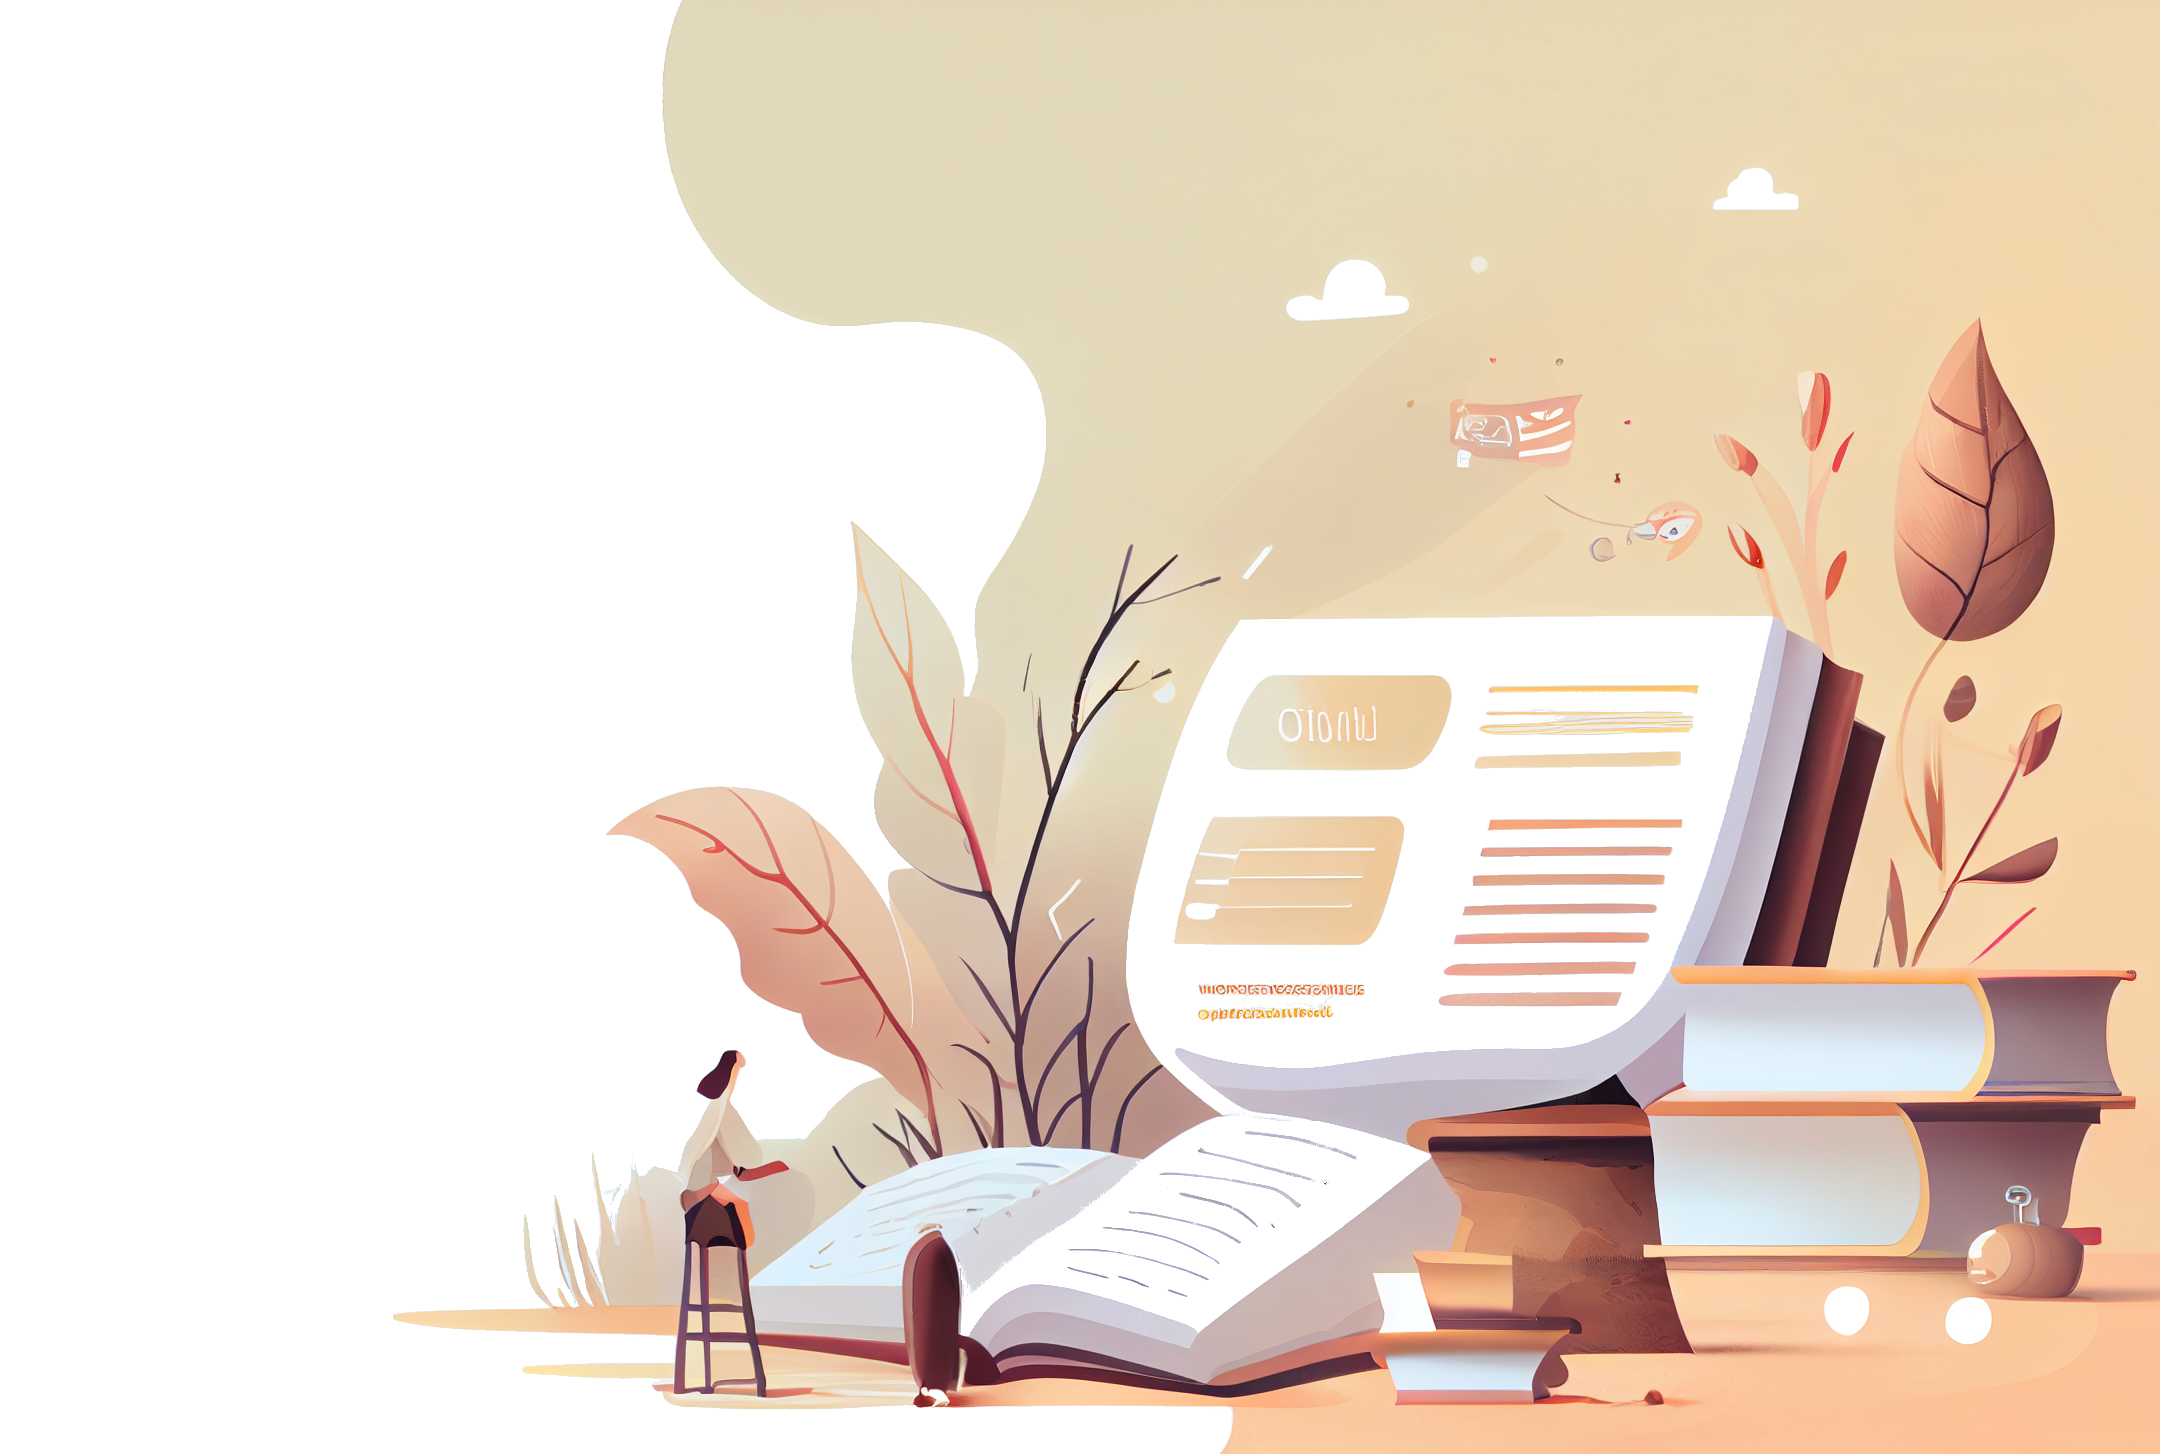
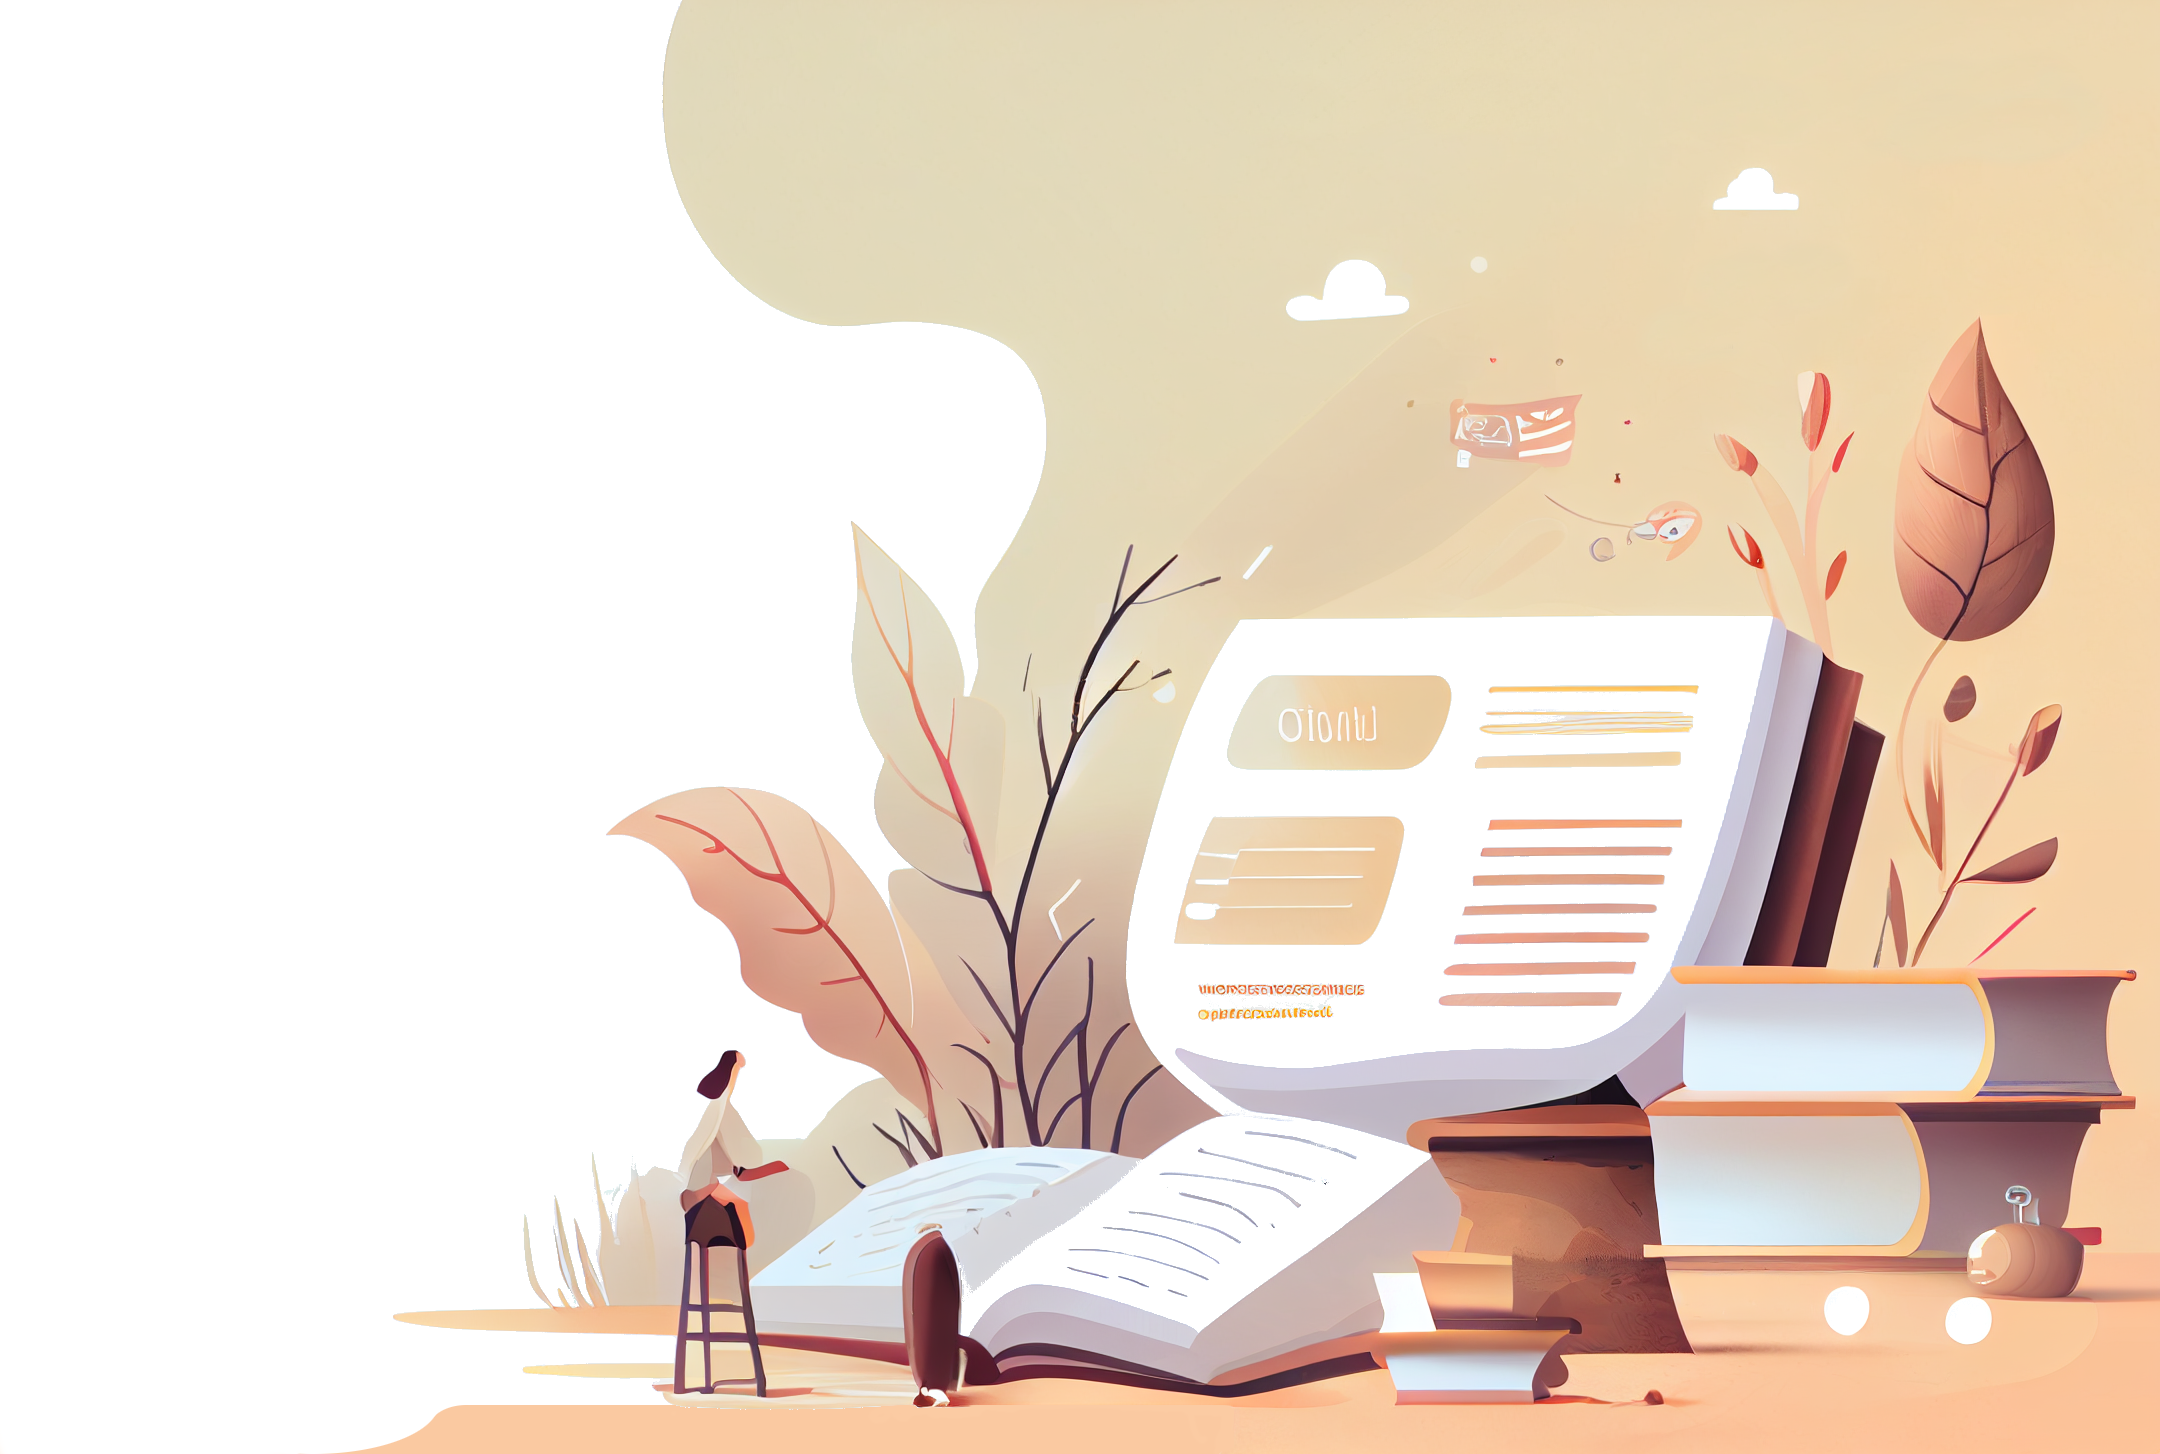
Bg reworked

Changed region(s): [[0.1551, 0.9594, 0.5894, 1.0]]

diff --git a/build/web/flutter_service_worker.js b/build/web/flutter_service_worker.js
@@ -12,9 +12,9 @@ const RESOURCES = {
 "icons/Icon-512.png": "96e752610906ba2a93c65f8abe1645f1",
 "app.html": "2b456f24f578dfd2fcb552a9b7c01408",
 "favicon.png": "5dcef449791fa27946b3d35ad8803796",
-"index.css": "74a4f4dc9c2987b8a4559084ebbe78a3",
+"index.css": "e25d11619004ebd072ddb9e5a1f85bc2",
 ".git/HEAD": "4cf2d64e44205fe628ddd534e1151b58",
-".git/COMMIT_EDITMSG": "042d32856a5010062da595454fd1b8d0",
+".git/COMMIT_EDITMSG": "ba89174eac5268cbe65dd0e7a0260c37",
 ".git/hooks/pre-rebase.sample": "56e45f2bcbc8226d2b4200f7c46371bf",
 ".git/hooks/pre-commit.sample": "e4db8c12ee125a8a085907b757359ef0",
 ".git/hooks/pre-push.sample": "3c5989301dd4b949dfa1f43738a22819",
@@ -28,6 +28,7 @@ const RESOURCES = {
 ".git/hooks/pre-merge-commit.sample": "39cb268e2a85d436b9eb6f47614c3cbc",
 ".git/hooks/update.sample": "517f14b9239689dff8bda3022ebd9004",
 ".git/config": "d1d951ac9a08aafb0bf9b4abba60eed3",
+".git/objects/f8/1218ec7f899b6292d6d2e8e73da1a1968a9b1c": "95b1adae4b95b45629db67f91aabd4de",
 ".git/objects/9b/27534445ef303bd6f2058b5e627c52e3456e30": "07d38b293dcec26b6d87aa57010a91a8",
 ".git/objects/24/dc7fa4d3e61a950d014b160cf62b18ef7013f6": "141ab433709e4f1902d441653e13352e",
 ".git/objects/4b/ce11f832f26ee264d95b6790237601cf5a6088": "d9243641979aa81a886b057ab392745a",
@@ -38,6 +39,7 @@ const RESOURCES = {
 ".git/objects/c7/a143b63cf893f4a5859b7c83d104ef9a116fe8": "439dc538b8094231c483043ec9e05e42",
 ".git/objects/9c/750f202659b430f890eaf6048e59b4d4712fe5": "df0d4037c4e261d006ac0c858b69b00c",
 ".git/objects/2a/76d427c768f181b2b51cd6149819c66cfb6bd0": "c2b27039b6e976b41d7f295531a8b26d",
+".git/objects/18/afa07e3f2e409e2508f985b32b7e22a720fc1a": "7f002bc88ec9669ba1cb8d2b5b5db237",
 ".git/objects/18/7a1a1575e540de8dc2f4feee8d96a3175f573b": "ca6c82a6f79c1731f7201e2a2e2a2a0f",
 ".git/objects/e8/6679da37cb001fa474e6c3aefe298d4eda7a48": "b3de0679e06eeff900544cad420a4d21",
 ".git/objects/ea/bbbc24b2ce91e00e19109dfb37dc9374ee4d02": "16f6b96fa94544404a13812a6cdf771a",
@@ -55,10 +57,13 @@ const RESOURCES = {
 ".git/objects/c1/b1461f0c1e505cb23e66963976121f0284af25": "35f80b736a3ba1003d6130c7784db1c2",
 ".git/objects/70/51da423def09214a4a7c2f5fe753c3f25083fd": "db8db1d22e9e57fdac2af70e8ea69036",
 ".git/objects/8a/aa46ac1ae21512746f852a42ba87e4165dfdd1": "1d8820d345e38b30de033aa4b5a23e7b",
+".git/objects/26/de965749918c831a2224c4a2f5f248c5b700a6": "fed2a0cef49d4869ceaa9be784054153",
+".git/objects/d4/f85e84be51a5dbc7ee9ee6f4f0c63b0ddb8cbb": "4da989ef4943f18f5937326561bac79a",
 ".git/objects/be/121cc7c416729817b180a93cfe38470e3844ca": "434c8103bad75fd6299eb4239d7fb665",
 ".git/objects/6d/542039fcddeaf90d5aeb4a5a701f9431a10721": "0ac015cef034b04b3a4c8f6fbea94466",
 ".git/objects/7c/f165bb193ac882908c931a3fdc7b91f0cdf138": "6be43a3bf61300bef9c58238cd0b0f7e",
 ".git/objects/72/2da365ee294f1fad967c9a5e8ce1f6294a68a2": "cca7fe713d7ce8b84c294aa0392c1467",
+".git/objects/78/2b64f6f4dc545bb0e223049aeac18ef63a8d37": "eb344442e15701a622d8ab0b8035d63d",
 ".git/objects/e1/ad14a073d8d580cb2e246287f71364d1bf5033": "3de1540bef5512495b3b106e5453f5b9",
 ".git/objects/ed/685e4798607d60da48f5a8bf1a2f8458c86b33": "f69d02b65fb506c38934be003fb4a48a",
 ".git/objects/16/8596910288eb0e46e1d8d6dd0dca4b592c9375": "fbbc05f9e83f50fa2e24b90ce12aa1d8",
@@ -68,6 +73,7 @@ const RESOURCES = {
 ".git/objects/bc/26d4264e56fefb950a0a0ea19b02c23b6a19f4": "e5945cf32afabd51bc2fde38d3285530",
 ".git/objects/9d/5bfb277d518f56e19ff3e668aca380aed3ff3b": "dde70059e8ac7c107c578c8a61ae608c",
 ".git/objects/84/168a89f04de21dc4adbadd14db47390a6079e4": "24572caf3bd258f8eefff74dd56325ed",
+".git/objects/f9/46fcec9873c1623870fe7f031455ce55429e8e": "846582589245e8b0d390d2fc45dfbf42",
 ".git/objects/1a/8fd3da589c4836a84f0b7019a24196604147b1": "58f47983bc295f7bed8d784fa77bd62b",
 ".git/objects/b0/53fcf4e286130d3b2489812b7104ad4b8bf6bb": "d8f1084caee221f55f8e4ab5256ab3a9",
 ".git/objects/b7/49bfef07473333cf1dd31e9eed89862a5d52aa": "36b4020dca303986cad10924774fb5dc",
@@ -76,6 +82,7 @@ const RESOURCES = {
 ".git/objects/73/a5ca9e6ea457a8e87e3e88047b9268f15bb75b": "437e873491b95548ba60fecc00fa7933",
 ".git/objects/85/26cd6873cae032f78a03de3af355ae44d25952": "46469e1809608412898a85e055e0c0f5",
 ".git/objects/ce/2f5dcd12bc7112800799eb6a06cfdf05ff964f": "9b736263b865c469831c13f83ee43eeb",
+".git/objects/a8/6546bcc0c8f4cc2af07c9e1f91018690f4364e": "e558695cd9ba4785a46da2f4ca80f8dc",
 ".git/objects/79/6f30e400bbac29bcb71aee86f100ffbe291521": "924cb98a88eeabc7205687bb7a44c014",
 ".git/objects/79/ba7ea0836b93b3f178067bcd0a0945dbc26b3f": "f3e31aec622d6cf63f619aa3a6023103",
 ".git/objects/58/2a67a0ba9a9cb80e6e643a2f545664222a741a": "f201b0b6ad54a5f0853c9be7df4f8243",
@@ -91,6 +98,7 @@ const RESOURCES = {
 ".git/objects/64/65630d1c3abaa32069a172ffda3bda24097a94": "02fe0d58a333b3b1646c8209d4a57e99",
 ".git/objects/64/54e2e358e23fa12af9c54d0047d330cd57705a": "b90b0d7ceba5f2c220689c3228a85f0b",
 ".git/objects/ec/2e7c22f61d7aac2265932c63d2bd2fa439f6db": "5f6d1d05ab59b0cfcc1ea92e9cbc4fda",
+".git/objects/30/083cee3d9f417e46ada60286f79b38a157d196": "ad3d7c5405eea9f4e79989b763458ffa",
 ".git/objects/28/198e1c3ed39ab5fd7a89d4ab8d13b0e6d584df": "94f0be693b4f0ed3cd15e9b3d12a0e71",
 ".git/objects/28/4d8dcb3b6d9f6359366a98bf6f24f91c10a4c6": "c8aa524445d76d9e51a95ffa0461312c",
 ".git/objects/35/d8b8ee5613841a642a6dbabad811218564da3d": "d4ff6e6eb2440f8cb6c0328a05de07b8",
@@ -99,9 +107,11 @@ const RESOURCES = {
 ".git/objects/12/5c284dc2bbed823ed6389e50cc75a8a1ef2351": "9ab0bcea773dc4fd6ef989aef459b28a",
 ".git/objects/c0/bca99acda2d00018f1091c360587f608e4a24f": "5a50eca0d65713263d849409b575a105",
 ".git/objects/14/c30a2da574e5e0ec533a5539a1b217ac7b69e5": "cddaf78235f5d8b68413126dd006b2e6",
+".git/objects/d2/520d1ae32bc1bac52d6475b773371f9b0ea5cb": "708439d1df19d691b30fc1fe7511760e",
 ".git/objects/57/5b051b642f93f3c2c55d1d768af584e2cefb4f": "03492663d00fa4de56abd7f838dbaf2c",
 ".git/objects/5c/614a6f3c6e217d8c9b8a55c55f5bfae02b20bb": "1015a943c00f26c66cee36ab72b7ac58",
 ".git/objects/a4/39a75d2c5f581f15da79140d014c01d64d5269": "a1771411136abe12408a13543be2971a",
+".git/objects/a4/6b84daf3e7953b8fd36ead386084a419f73dbb": "fd598250c4d153bb216a960dac3dc6b9",
 ".git/objects/23/be54d312129dc9f03b5ebeebd983b9bae31210": "933134779c8c8af155b8decee5803e41",
 ".git/objects/82/89a68418d63c0acfe5e3f380169f6b89263906": "821f5c40ec759510c4ceb270ea289524",
 ".git/objects/00/855256583f69b5b8013646ddcf4e83042f86f2": "d7ecc6d50b99bbc657034399d84963a9",
@@ -117,14 +127,15 @@ const RESOURCES = {
 ".git/objects/55/919b0b32f21410d9755ffbe64aeb2d07650744": "ffb88073b04c5f9454f1e7f08edc733c",
 ".git/objects/55/b37da53880a3a3924afe1c852b31221058d1f0": "4230b5c18f6af30479a92139cb3c4181",
 ".git/objects/2c/0ebfe052cc86f315afc2944f5584786ee8bc5c": "bf07a24a1725fe2afc553d4b27e8e218",
-".git/refs/heads/master": "fc2a935ce5f7ac6d05fc5612e28749e3",
-".git/refs/remotes/origin/master": "fc2a935ce5f7ac6d05fc5612e28749e3",
+".git/objects/fb/5092afb7ddb4343465ed66a271c780e6fdb065": "3bc8c1b273c6c9ce0991d00c25e41a0d",
+".git/refs/heads/master": "7c54aaf3022b722459dea5abe738678f",
+".git/refs/remotes/origin/master": "7c54aaf3022b722459dea5abe738678f",
 ".git/info/exclude": "036208b4a1ab4a235d75c181e685e5a3",
 ".git/description": "a0a7c3fff21f2aea3cfa1d0316dd816c",
-".git/logs/HEAD": "46f36103bc361a672877ab13617ce359",
-".git/logs/refs/heads/master": "46f36103bc361a672877ab13617ce359",
-".git/logs/refs/remotes/origin/master": "f0e383f751b2eaf097702c003fe19dd3",
-".git/index": "da2a942b8cf70d576e48384f3255b5df",
+".git/logs/HEAD": "cb3089b51a55fbe0304c484f7f8fac5c",
+".git/logs/refs/heads/master": "cb3089b51a55fbe0304c484f7f8fac5c",
+".git/logs/refs/remotes/origin/master": "ec1d3ec2dd47bc096ca7e5c472c4dd2c",
+".git/index": "f1b6724387da069da324c4d1600bf2dc",
 "version.json": "c5ec7f96bcae2727091d84e3e9d5ee84",
 "canvaskit/profiling/canvaskit.js": "c21852696bc1cc82e8894d851c01921a",
 "canvaskit/profiling/canvaskit.wasm": "371bc4e204443b0d5e774d64a046eb99",
@@ -132,9 +143,9 @@ const RESOURCES = {
 "canvaskit/canvaskit.wasm": "3de12d898ec208a5f31362cc00f09b9e",
 "assets/NOTICES": "259068529bed6e57beac74e9760f7147",
 "assets/fonts/MaterialIcons-Regular.otf": "e7069dfd19b331be16bed984668fe080",
-"assets/background_portrait.xcf": "0fab47e2eb724fcd9d5c364657c46f6c",
-"assets/background_portrait.webp": "d58fd1e820c0d535a70210d4a86dd550",
-"assets/background_portrait.png": "2ad993b8559691f9ae54c38db3db4cf5",
+"assets/background_portrait.xcf": "a929339dc5a6962a0dfda15f64a2aef5",
+"assets/background_portrait.webp": "74fd6b88d1fca761e0e1cc7cbaba1b9f",
+"assets/background_portrait.png": "909153ce13286633a3d070f8cd256342",
 "assets/FontManifest.json": "dc3d03800ccca4601324923c0b1d6d57",
 "assets/background.webp": "16931655723775203b28757524070cc0",
 "assets/portrait_template.png": "3fc4a7f3955082b41813aad4dd89387b",

diff --git a/web/index.css b/web/index.css
@@ -1,10 +1,10 @@
 body {
     margin: 0;
+    background-color: #f5f5f5;
   }
 
 @media (orientation: portrait) {
     .cover {
-        background-color: #f5f5f5;
         background-image: url('./assets/background_portrait.webp');
         background-size: auto 80%;
         background-repeat: no-repeat;
@@ -12,17 +12,26 @@ body {
         height: 100vh;
         width: 100vw;
     }
+
+    .cute-button {
+        width: 50%;
+        margin-left: 20%;
+    }
 }
 
 @media (orientation: landscape) {
     .cover {
-        background-color: #f5f5f5;
         background-image: url('./assets/background.webp');
         background-size: auto 100%;
         background-repeat: no-repeat;
         background-position: right bottom;
         height: 100vh;
         width: 100vw;
+    }
+
+    .cute-button {
+        width: 30%;
+        margin-left: 30%;
     }
 }
 
@@ -85,11 +94,44 @@ body {
     font-size: 16px;
     cursor: pointer;
     transition: background-color 0.3s ease; /* transition effect */
-    width: 30%;
-    margin-left: 30%;
     margin-top: 10%;
 }
 
 .cute-button:hover {
     background-color: #d79e88;
+}
+
+
+svg path {
+    fill: #eacc96;
+  }
+  
+  svg rect {
+    fill: #f5f5f5;
+  }
+
+  .wave {
+    --divider-height: 4rem;
+    
+    position: relative;
+    top: calc( var(--divider-height)/2 * -1 );
+  
+    height: var(--divider-height);
+    width: 100%;
+      /* alternatively, could get rid of the rect, and move the svg container further down */
+  
+    float: left; 
+    z-index: 1;
+    
+  /*   outline: 1px solid red; */
+  }
+
+.About {
+    background-color: #eacc96;
+    height: 100vh;
+    width: 100vw;
+    display: flex;
+    flex-direction: column;
+    align-items: center;
+    justify-content: center;
 }

diff --git a/web/index.html b/web/index.html
@@ -25,6 +25,8 @@
   <meta name="apple-mobile-web-app-status-bar-style" content="black">
   <meta name="apple-mobile-web-app-title" content="magistro">
   <link rel="apple-touch-icon" href="icons/Icon-192.png">
+
+  <meta name="viewport" content="width=device-width, initial-scale=1.0">
   <link rel="stylesheet" type="text/css" href="./index.css">
 
   <!-- Favicon -->
@@ -48,8 +50,22 @@
         </a>
       </div>
     </div>
-    
   </div>
+
+  <div class="About">
+    <div class="about-container">
+      <h1 class="about-title">About</h1>
+      <p class="about-text">We are on a mission to revolutionize the way we learn things. Improve your math with us.</p>
+    </div>
+  </div>
+
+  <div class="wave">
+    <svg viewBox="0 70 500 60" preserveAspectRatio="none">
+      <rect x="0" y="0" width="500" height="500" style="stroke: none;" />
+      <path d="M0,100 C150,200 350,0 500,100 L500,00 L0,0 Z" style="stroke: none;"></path>
+    </svg>
+  </div>
+
   <!-- <div class="footer">
     <p>© 2020 Magistro</p>
   </div> -->
